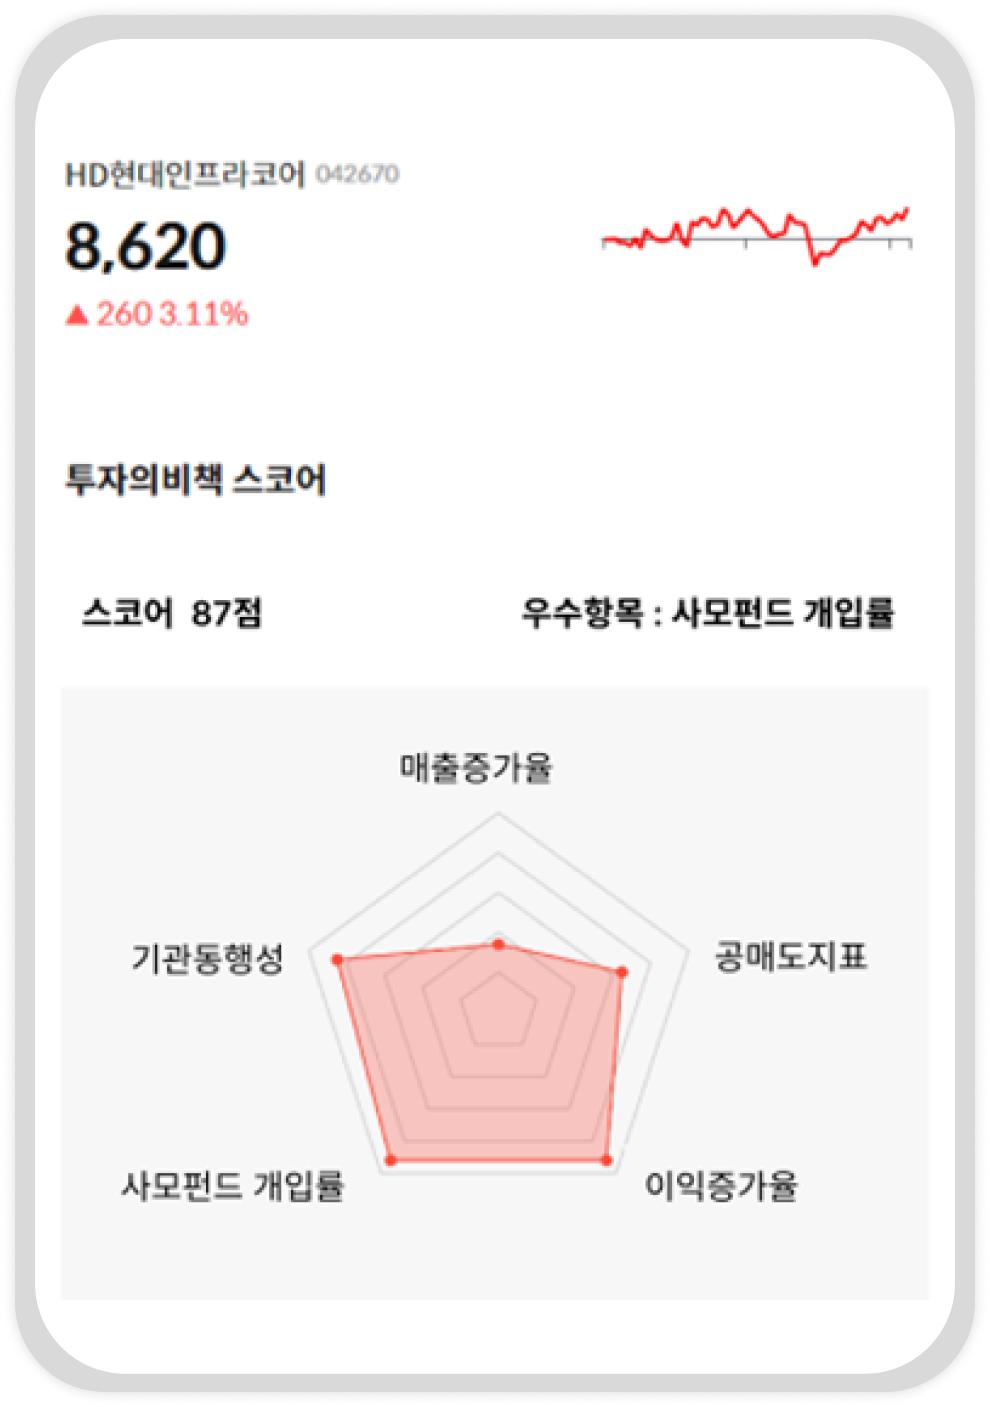
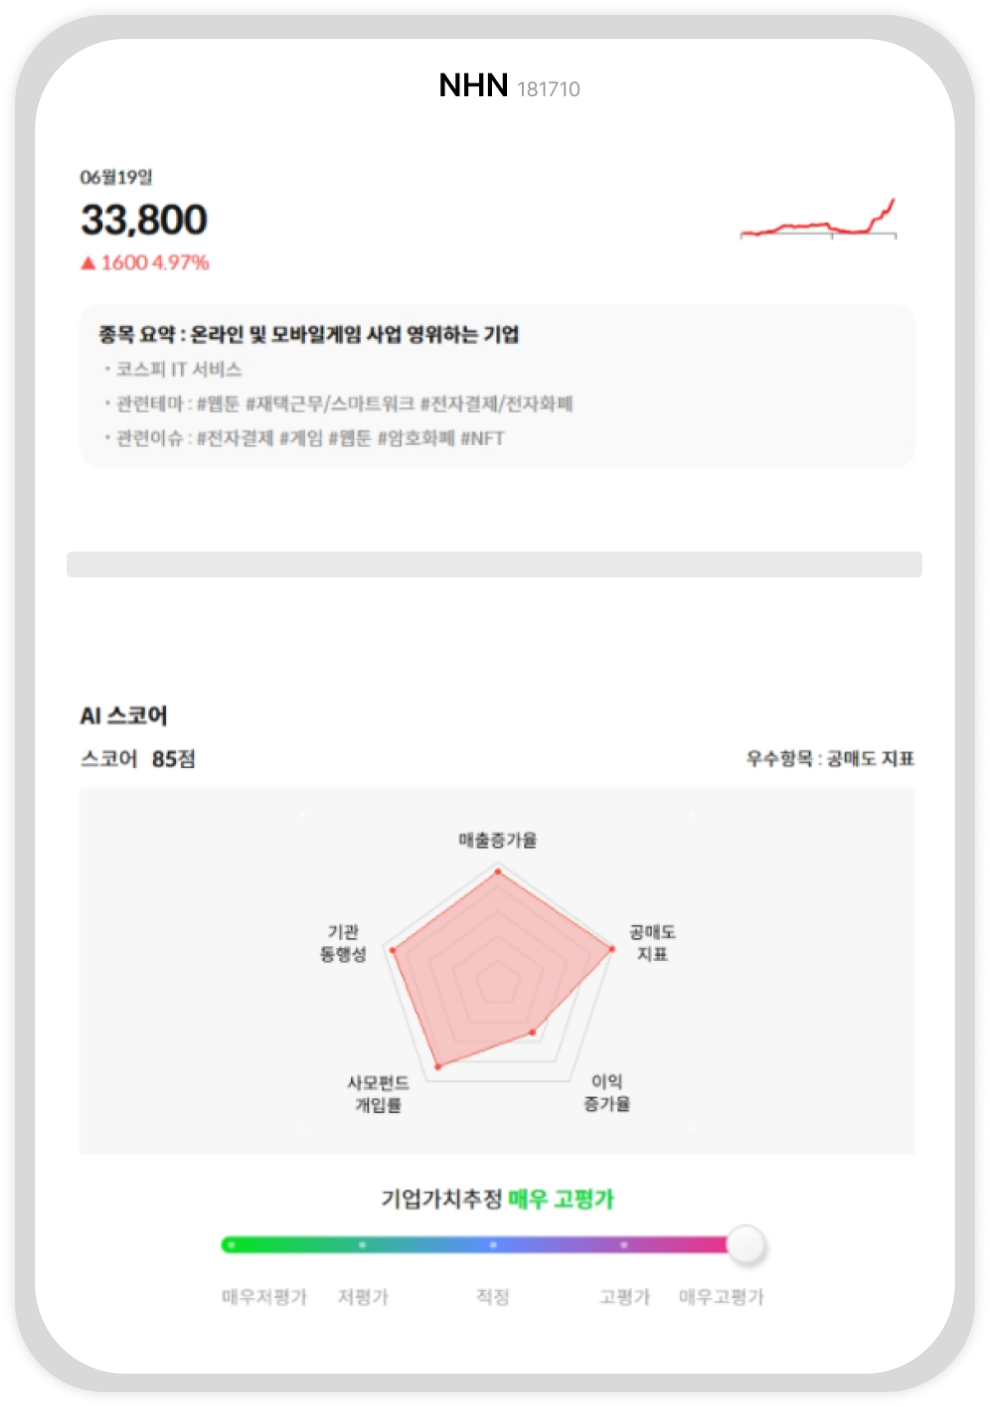
투자의비책 서비스소개 이미지 수정 및 추가, 구독페이지 표 추가

diff --git a/투자의 비책/dist/output.css b/투자의 비책/dist/output.css
@@ -6959,6 +6959,120 @@ input[type=radio].checkPay:checked + label {
   color: rgb(102 102 102 / var(--tw-text-opacity));
 }
 
+.subscribe .compared {
+  margin-bottom: 40px;
+  display: flex;
+  width: 100%;
+  flex-direction: column;
+  align-items: center;
+  justify-content: flex-start;
+  gap: 20px;
+}
+
+.subscribe .compared p {
+  text-align: center;
+  font-size: 20px;
+  font-weight: 400;
+  line-height: 25px;
+  --tw-text-opacity: 1;
+  color: rgb(0 0 0 / var(--tw-text-opacity));
+}
+
+.subscribe .compared .cmp-table {
+  display: flex;
+  width: 100%;
+  align-items: flex-start;
+  justify-content: center;
+  border-radius: 16px;
+}
+
+.subscribe .compared .cmp-table .column {
+  display: flex;
+  width: 30%;
+  flex-direction: column;
+  align-items: center;
+  justify-content: flex-start;
+}
+
+.subscribe .compared .cmp-table .column:first-child {
+  width: 35%;
+}
+
+.subscribe .compared .cmp-table .column:last-child {
+  width: 35%;
+}
+
+.subscribe .compared .cmp-table .column .table-th {
+  display: flex;
+  height: 40px;
+  width: 100%;
+  align-items: center;
+  justify-content: center;
+  --tw-bg-opacity: 1;
+  background-color: rgb(188 188 194 / var(--tw-bg-opacity));
+  font-size: 16px;
+  font-weight: 400;
+  line-height: 20px;
+  --tw-text-opacity: 1;
+  color: rgb(255 255 255 / var(--tw-text-opacity));
+}
+
+.subscribe .compared .cmp-table .column:first-child .table-th {
+  border-top-left-radius: 16px;
+}
+
+.subscribe .compared .cmp-table .column .table-td {
+  display: flex;
+  height: 53px;
+  width: 100%;
+  align-items: center;
+  justify-content: center;
+  border-left-width: 1px;
+  border-right-width: 1px;
+  --tw-border-opacity: 1;
+  border-color: rgb(238 238 238 / var(--tw-border-opacity));
+  text-align: center;
+  font-size: 16px;
+  font-weight: 400;
+  line-height: 20px;
+  --tw-text-opacity: 1;
+  color: rgb(0 0 0 / var(--tw-text-opacity));
+}
+
+.subscribe .compared .cmp-table .column .table-td:last-child {
+  border-bottom-left-radius: 16px;
+  border-bottom-width: 1px;
+}
+
+.subscribe .compared .cmp-table .column .table-td:nth-child(2) {
+  padding-top: 12px;
+}
+
+.subscribe .compared .cmp-table .column:nth-child(2) .table-td {
+  border-radius: 0px;
+  border-style: none;
+  --tw-bg-opacity: 1;
+  background-color: rgb(245 245 245 / var(--tw-bg-opacity));
+}
+
+.subscribe .compared .cmp-table .column.premium .table-th {
+  --tw-bg-opacity: 1;
+  background-color: rgb(255 80 80 / var(--tw-bg-opacity));
+  border-top-right-radius: 16px;
+}
+
+.subscribe .compared .cmp-table .column.premium .table-td {
+  --tw-border-opacity: 1;
+  border-color: rgb(255 80 80 / var(--tw-border-opacity));
+  --tw-bg-opacity: 1;
+  background-color: rgb(255 224 224 / var(--tw-bg-opacity));
+}
+
+.subscribe .compared .cmp-table .column.premium .table-td:last-child {
+  border-bottom-left-radius: 0px;
+  border-bottom-right-radius: 16px;
+}
+
 /* //////////////////////// */
 
 /* 서비스소개 */

diff --git a/투자의 비책/src/input.css b/투자의 비책/src/input.css
@@ -2922,6 +2922,54 @@ input[type=radio].checkPay:checked + label {
 .subscribe .guide{
   @apply w-full p-[15px_0_40px] text-[#666] text-[14px] font-normal leading-[17px];
 }
+
+.subscribe .compared{
+  @apply w-full flex flex-col justify-start items-center gap-[20px] mb-[40px];
+}
+
+.subscribe .compared p{
+  @apply text-[#000] text-center text-[20px] font-normal leading-[25px];
+}
+
+.subscribe .compared .cmp-table{
+  @apply w-full flex justify-center items-start rounded-[16px];
+}
+
+.subscribe .compared .cmp-table .column{
+  @apply w-[30%] first:w-[35%] last:w-[35%] flex flex-col justify-start items-center;
+}
+
+.subscribe .compared .cmp-table .column .table-th{
+  @apply w-full h-[40px] flex justify-center items-center bg-[#BCBCC2] text-[#fff] text-[16px] font-normal leading-[20px];
+}
+
+.subscribe .compared .cmp-table .column:first-child .table-th{
+  @apply rounded-tl-[16px];
+}
+
+.subscribe .compared .cmp-table .column .table-td{
+  @apply w-full h-[53px] flex justify-center items-center text-center text-[#000] text-[16px] font-normal leading-[20px] border-l border-r border-[#eee] last:border-b last:rounded-bl-[16px];
+}
+
+.subscribe .compared .cmp-table .column .table-td:nth-child(2){
+  @apply pt-[12px];
+}
+
+.subscribe .compared .cmp-table .column:nth-child(2) .table-td{
+  @apply border-none bg-[#f5f5f5] rounded-none;
+}
+
+.subscribe .compared .cmp-table .column.premium .table-th{
+  @apply bg-[#FF5050];
+}
+
+.subscribe .compared .cmp-table .column.premium .table-th{
+  @apply rounded-tr-[16px];
+}
+
+.subscribe .compared .cmp-table .column.premium .table-td{
+  @apply bg-[#FFE0E0] border-[#ff5050] last:rounded-bl-none last:rounded-br-[16px];
+}
 /* //////////////////////// */
 
 /* 서비스소개 */

diff --git a/투자의 비책/src/구독(모바일웹).html b/투자의 비책/src/구독(모바일웹).html
@@ -43,6 +43,29 @@
           </div>
           <div class="title">리서치리포트 보기 어려우시죠?</div>
           <div class="txt">언제 사고 팔아야하는지 어려움을 투자의 비책에서 쉽게 해결해 드립니다.</div>
+          <div class="compared">
+            <p>투자의비책 프리미엄 서비스는 <br> 이렇게 다릅니다.</p>
+            <div class="cmp-table">
+              <div class="column">
+                <div class="table-th">일반</div>
+                <div class="table-td">매일 5종목<br>무료이용</div>
+                <div class="table-td">X</div>
+                <div class="table-td">X</div>
+              </div>
+              <div class="column">
+                <div class="table-th">VS</div>
+                <div class="table-td">종목검색</div>
+                <div class="table-td">종목추천</div>
+                <div class="table-td">실시간 알림</div>
+              </div>
+              <div class="column premium">
+                <div class="table-th">프리미엄</div>
+                <div class="table-td">무제한 이용</div>
+                <div class="table-td">무제한 이용</div>
+                <div class="table-td">매매신호 알림</div>
+              </div>
+            </div>
+          </div>
           <div class="box">
             <div class="saleBg">
               <img src="../img/sale.png" alt="">

diff --git a/투자의 비책/src/구독(앱).html b/투자의 비책/src/구독(앱).html
@@ -43,6 +43,29 @@
           </div>
           <div class="title">리서치리포트 보기 어려우시죠?</div>
           <div class="txt">언제 사고 팔아야하는지 어려움을 투자의 비책에서 쉽게 해결해 드립니다.</div>
+          <div class="compared">
+            <p>투자의비책 프리미엄 서비스는 <br> 이렇게 다릅니다.</p>
+            <div class="cmp-table">
+              <div class="column">
+                <div class="table-th">일반</div>
+                <div class="table-td">매일 5종목<br>무료이용</div>
+                <div class="table-td">X</div>
+                <div class="table-td">X</div>
+              </div>
+              <div class="column">
+                <div class="table-th">VS</div>
+                <div class="table-td">종목검색</div>
+                <div class="table-td">종목추천</div>
+                <div class="table-td">실시간 알림</div>
+              </div>
+              <div class="column premium">
+                <div class="table-th">프리미엄</div>
+                <div class="table-td">무제한 이용</div>
+                <div class="table-td">무제한 이용</div>
+                <div class="table-td">매매신호 알림</div>
+              </div>
+            </div>
+          </div>
           <div class="box">
             <div class="saleBg">
               <img src="../img/sale.png" alt="">

diff --git a/투자의 비책/src/서비스소개.html b/투자의 비책/src/서비스소개.html
@@ -233,6 +233,12 @@
                 <div class="swiper-slide">
                   <img src="../img/section5_img03.png" alt="">
                 </div>
+                <div class="swiper-slide">
+                  <img src="../img/section5_img04.png" alt="">
+                </div>
+                <div class="swiper-slide">
+                  <img src="../img/section5_img05.png" alt="">
+                </div>
               </div>
               <div class="swiper-pagination"></div>
             </div>
